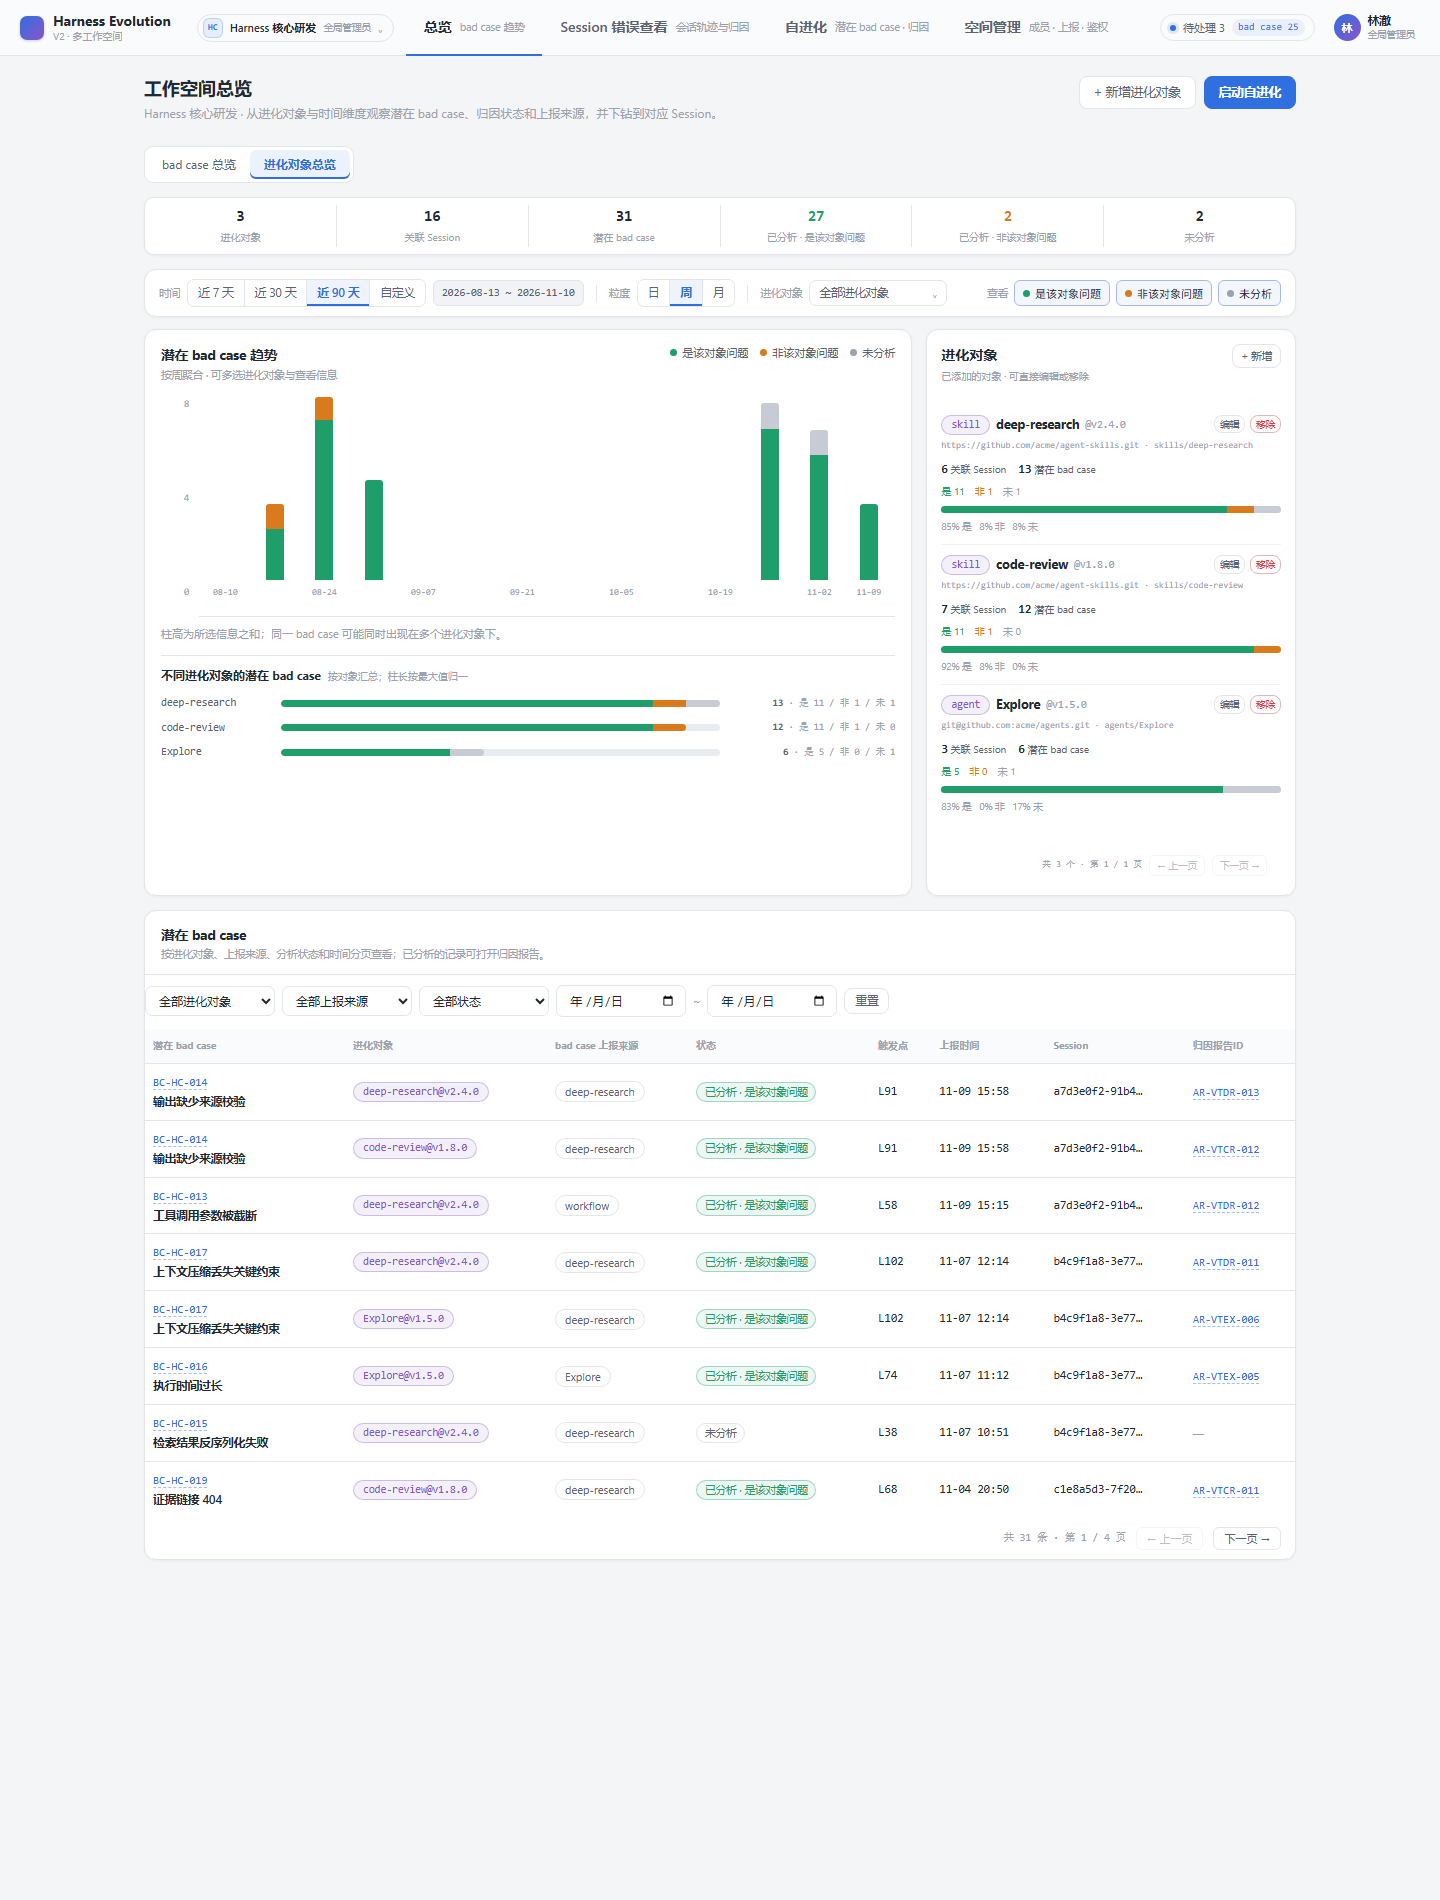
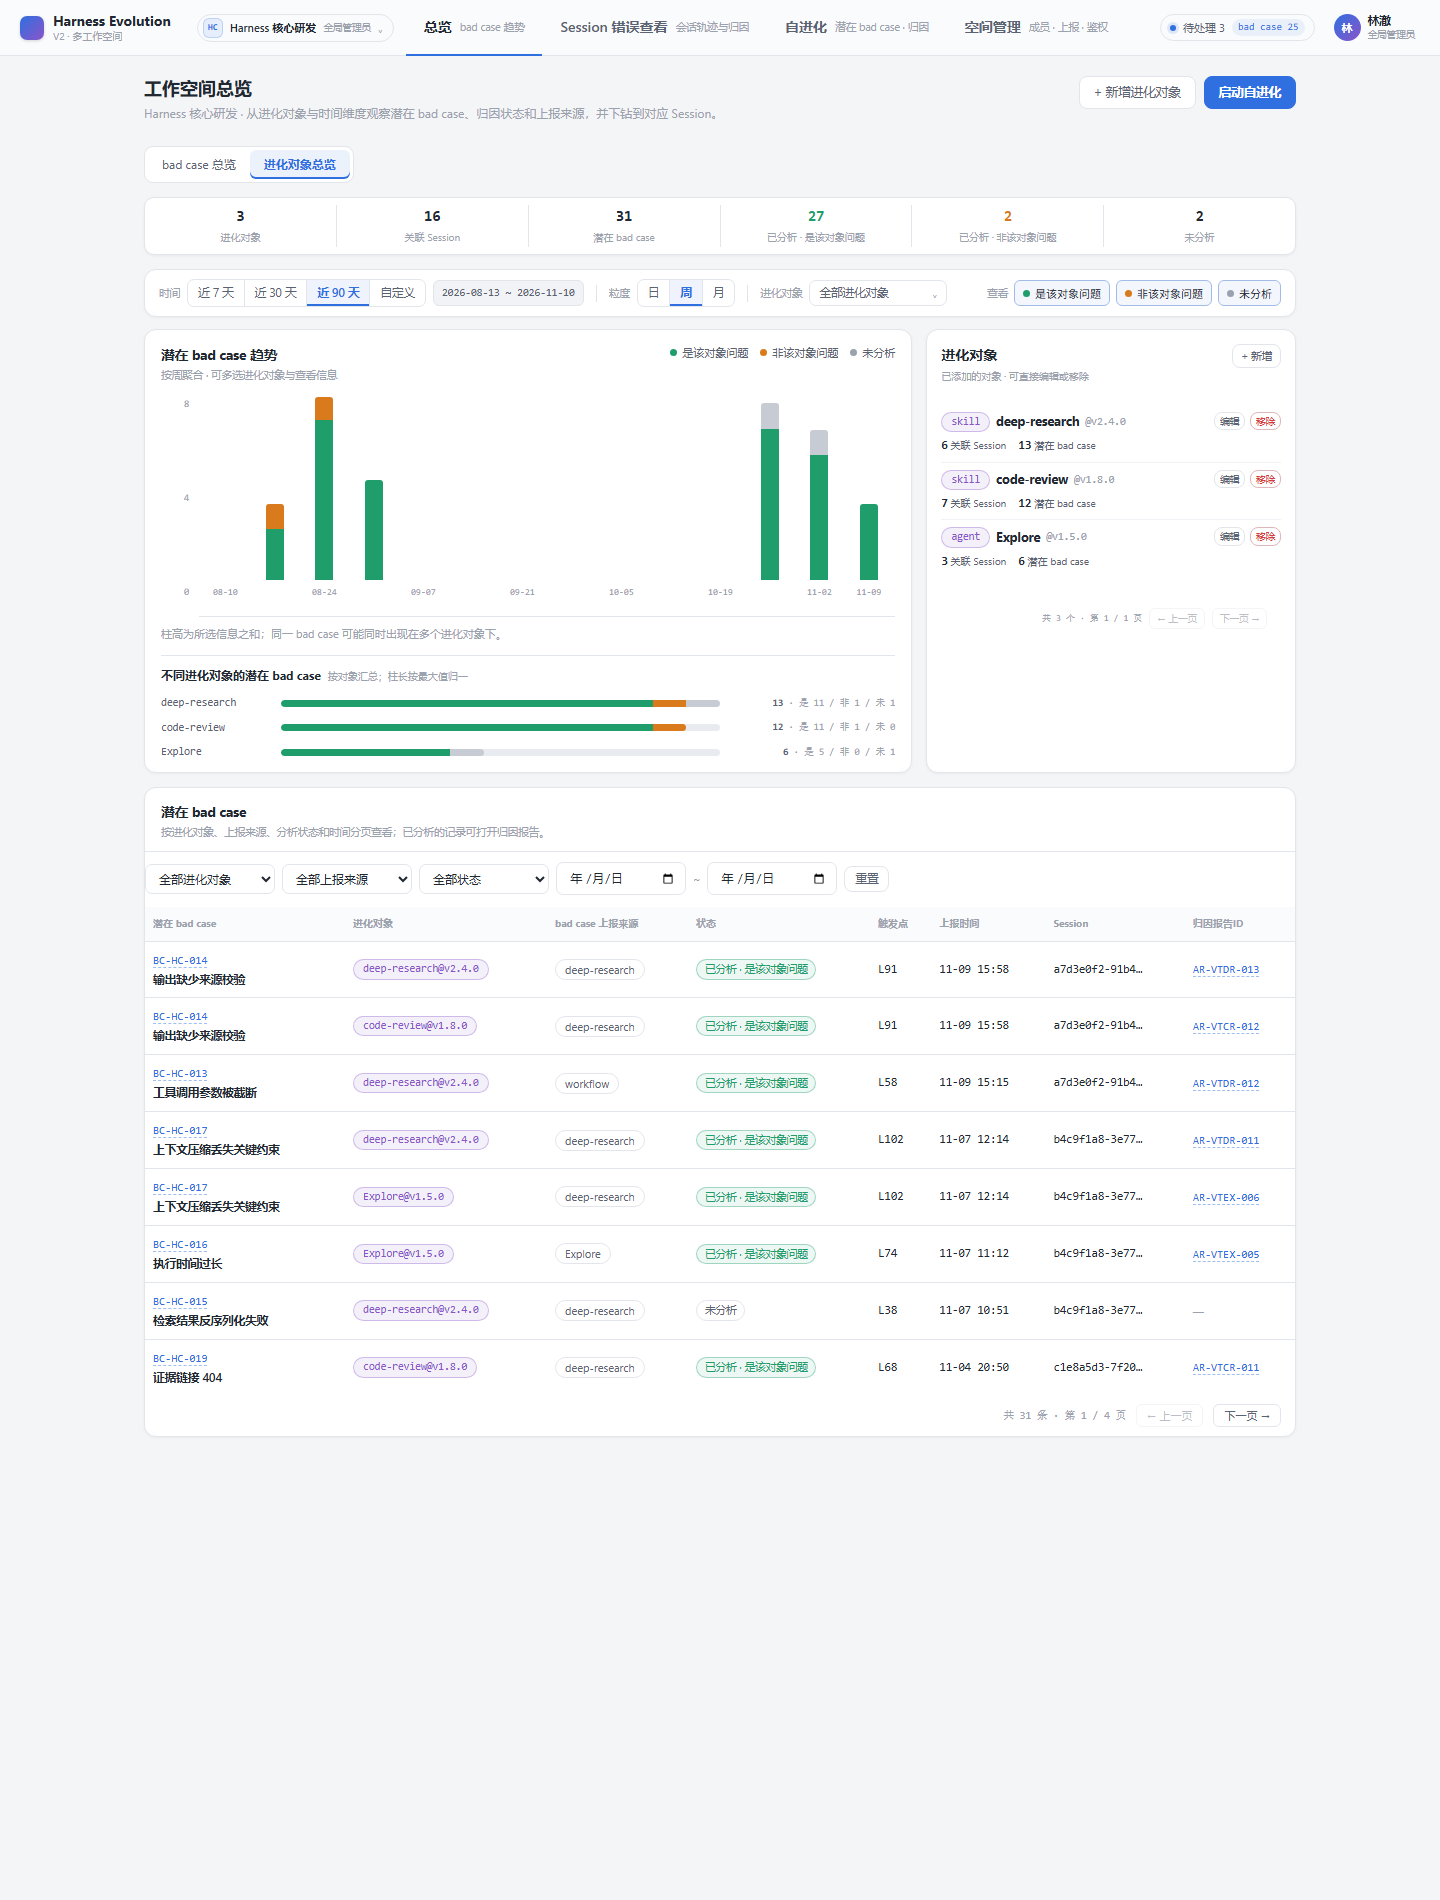
feat(prototype): compact evolution target sidebar list

diff --git a/plans/ui-prototype-v2/harness-evolution.html b/plans/ui-prototype-v2/harness-evolution.html
@@ -975,13 +975,13 @@
 .v2-page .tg-side-head h3 { margin: 0; font-size: 14px; }
 .v2-page .tg-side-head .v2-note { display: block; margin-top: 2px; }
 .v2-page .tg-side-head .btn { padding: 3px 8px; font-size: 10.5px; }
-.v2-page .tg-side-item { padding: 10px 0; border-top: 1px solid #f0f2f5; }
+.v2-page .tg-side-item { padding: 7px 0; border-top: 1px solid #f0f2f5; }
 .v2-page .tg-side-item:first-child { border-top: 0; }
 .v2-page .tg-side-top { display: flex; align-items: flex-start; justify-content: space-between; gap: 7px; }
 .v2-page .tg-side-top .tg-target-title b { font-size: 12.5px; }
 .v2-page .tg-side-top .tg-target-actions .btn { padding: 1px 5px; font-size: 9.5px; }
 .v2-page .tg-side-repo { margin-top: 4px; font-family: var(--mono); font-size: 9px; color: var(--text-faint); white-space: nowrap; overflow: hidden; text-overflow: ellipsis; }
-.v2-page .tg-side-meta { display: flex; gap: 12px; margin-top: 7px; font-size: 10px; color: var(--text-dim); }
+.v2-page .tg-side-meta { display: flex; gap: 12px; margin-top: 4px; font-size: 10px; color: var(--text-dim); }
 .v2-page .tg-side-meta b { font-family: var(--mono); font-size: 12px; color: var(--text); }
 .v2-page .tg-side-counts { display: flex; gap: 10px; margin-top: 5px; font-size: 10px; color: var(--text-faint); }
 .v2-page .tg-side .tg-ratio { margin-top: 7px; }
@@ -4843,20 +4843,15 @@ function v2RenderTargetsOverview() {
       <span class="tg-lbl">${i % labelStep === 0 || i === buckets.length - 1 ? b.label : ''}</span>
     </div>`;
   }).join('');
-  const tPageSize = 3;
+  const tPageSize = 5;
   const tPages = Math.max(1, Math.ceil(all.length / tPageSize));
   const tPage = Math.min(Math.max(1, V2.targetOv.targetPage || 1), tPages);
   V2.targetOv.targetPage = tPage;
   const targetSide = all.slice((tPage - 1) * tPageSize, tPage * tPageSize).map(d => {
     const t = d.target, c = d.counts;
-    const pct = (n) => d.potential ? (n / d.potential * 100).toFixed(0) : 0;
-    return `<div class="tg-side-item ${selected.has(t.id) ? 'selected' : ''}">
+    return `<div class="tg-side-item ${selected.has(t.id) ? 'selected' : ''}" title="${v2Esc(t.objectName)} · 潜在 ${d.potential} · 是 ${c.isTarget} / 非 ${c.notTarget} / 未 ${c.unanalyzed}">
       <div class="tg-side-top"><div class="tg-target-title"><span class="chip kind">${v2Esc(t.kind)}</span><b>${v2Esc(t.objectName)}</b><span class="mono">@${v2Esc(d.version)}</span></div><div class="tg-target-actions"><button class="btn sm" data-v2-tg-edit="${t.id}">编辑</button><button class="btn sm danger" data-v2-tg-remove="${t.id}">移除</button></div></div>
-      <div class="tg-side-repo" title="${v2Esc(t.repoUrl || '')}${t.subDir ? ' · ' + v2Esc(t.subDir) : ''}">${v2Esc(t.repoUrl || '')}${t.subDir ? ` · ${v2Esc(t.subDir)}` : ''}</div>
       <div class="tg-side-meta"><span><b>${d.assoc}</b> 关联 Session</span><span><b>${d.potential}</b> 潜在 bad case</span></div>
-      <div class="tg-side-counts"><span style="color:var(--green)">是 ${c.isTarget}</span><span style="color:var(--orange)">非 ${c.notTarget}</span><span>未 ${c.unanalyzed}</span></div>
-      <div class="tg-ratio" title="是该对象 ${c.isTarget} · 非该对象 ${c.notTarget} · 未分析 ${c.unanalyzed}"><span class="tg-r-is" style="width:${pct(c.isTarget)}%"></span><span class="tg-r-not" style="width:${pct(c.notTarget)}%"></span><span class="tg-r-un" style="width:${pct(c.unanalyzed)}%"></span></div>
-      <div class="tg-ratio-legend"><span>${pct(c.isTarget)}% 是</span><span>${pct(c.notTarget)}% 非</span><span>${pct(c.unanalyzed)}% 未</span></div>
     </div>`;
   }).join('');
   const maxTargetPotential = Math.max(1, ...activeSets.map(d => d.potential));

diff --git a/plans/ui-prototype-v2/design-v2.md b/plans/ui-prototype-v2/design-v2.md
@@ -143,7 +143,7 @@ Content-Type: application/json
 - 总览标题下方用二级 Tab 切换「bad case 总览」「进化对象总览」，共享空间与时间上下文。
 - 布局沿用 bad case 总览：左侧趋势图 + 下方不同进化对象的潜在 bad case 分布，右侧原「空间额度」位置改为分页的进化对象列表，底部仍是潜在 bad case 列表。
 - 进化对象总览展示：对象数、关联 Session、潜在 bad case、已分析（是该对象 / 非该对象）、未分析。
-- 右侧对象列表每项显示对象/版本、关联 Session、潜在 bad case、三种状态数量、占比条；可直接新增、编辑、移除，超过每页数量时分页。
+- 右侧对象列表保持紧凑，每项只显示对象/版本、关联 Session、潜在 bad case；三种状态的数量与占比统一在图表下方分布中展示。可直接新增、编辑、移除，每页 5 个，超过时分页。
 - 趋势图支持多选进化对象、时间范围、粒度，以及多选查看信息（是该对象 / 非该对象 / 未分析）。
 - 不同进化对象分布按对象聚合潜在 bad case 数量，柱长按最大值归一，显示是该对象/非该对象/未分析三种状态。
 - 列表支持进化对象、上报来源、状态、时间段筛选；已分析记录展示归因报告 ID，可点击跳转归因分析。
